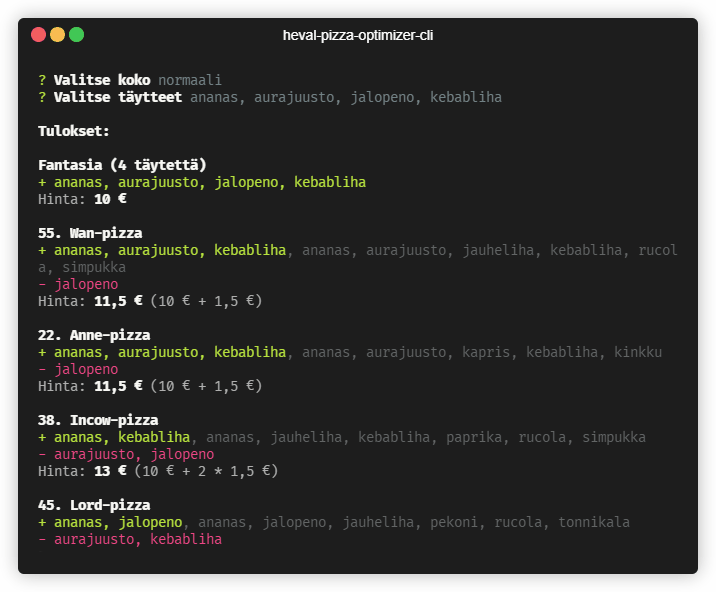
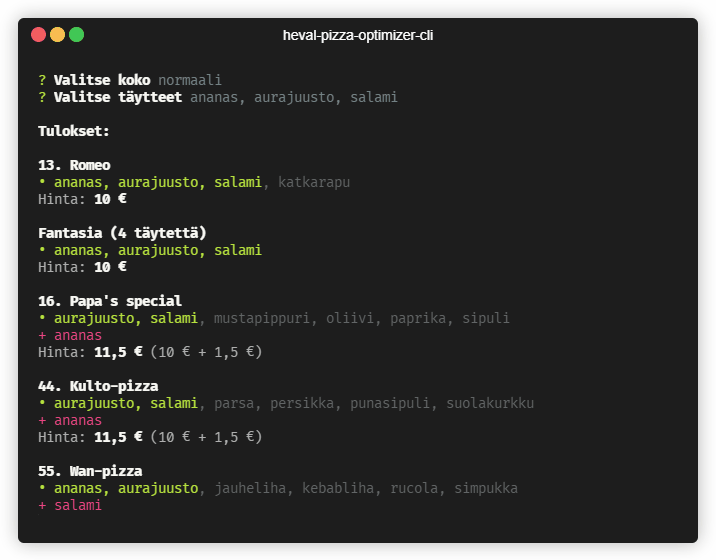
bug fixes & improvements

diff --git a/src/index.ts b/src/index.ts
@@ -31,7 +31,7 @@ const createOptimizerResultConsoleOutput = (results: OptimizerResult[]) => {
         .join(', ');
 
     if (result.hasIncludedToppings()) {
-      output += chalk.green(`+ ${formatToppingList(result.getIncludedToppings())}`);
+      output += chalk.green(`• ${formatToppingList(result.getIncludedToppings())}`);
     }
 
     if (result.hasAdditionalToppings()) {
@@ -41,7 +41,7 @@ const createOptimizerResultConsoleOutput = (results: OptimizerResult[]) => {
     output += '\n';
 
     if (result.hasMissingToppings()) {
-      output += chalk.red(`- ${formatToppingList(result.getMissingToppings())}`);
+      output += chalk.red(`+ ${formatToppingList(result.getMissingToppings())}`);
       output += '\n';
     }
 
@@ -66,7 +66,7 @@ const createOptimizerResultConsoleOutput = (results: OptimizerResult[]) => {
 };
 
 const exec = async () => {
-  console.log(chalk.underline('H E V A L   O P T I M I Z E R\n'));
+  console.log(chalk.bold(chalk.underline('H E V A L   O P T I M I Z E R\n')));
 
   const scraper = new Scraper();
 

diff --git a/src/optimizer.ts b/src/optimizer.ts
@@ -103,8 +103,12 @@ export class Optimizer {
     for (const category of this.dataset.getCategories()) {
       for (const pizza of category.getAllPizzas()) {
         const includedToppings = pizza.getToppingsIntersection(criteria.toppings);
-        const missingToppings = _.difference(criteria.toppings, includedToppings);
-        const additionalToppings = _.difference(pizza.getToppings(), includedToppings);
+        const missingToppings = _.differenceBy(criteria.toppings, includedToppings, topping =>
+          topping.getName()
+        );
+        const additionalToppings = _.differenceBy(pizza.getToppings(), includedToppings, topping =>
+          topping.getName()
+        );
 
         const basePrice = category.findPrice(criteria.size);
 
